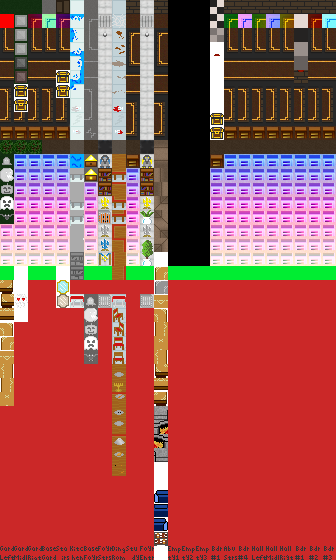
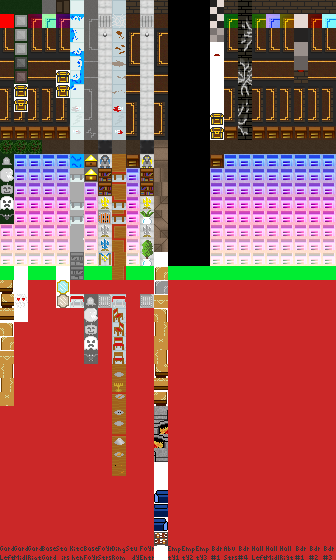
Cracks added to floor in tiny room above kitchen flooded area to add crash through

Changed region(s): [[0.6845, 0.0, 0.7738, 0.2732]]

diff --git a/js/World.js b/js/World.js
@@ -151,19 +151,10 @@ var levelHallwayRight =
 10, 10, 10, 10, 10, 10, 10, 206, 10, 10, 10, 10, 10, 10, 10, 10, 0, 0, 0, 0, 0, 0, 0, 0, 0, 0, 0, 0, 0, 0, 0, 10, 0, 0, 0, 0, 0, 0, 0, 0, 0, 0, 0, 0, 0, 0, 0, 10, 0, 0, 0, 0, 0, 0, 0, 0, 0, 0, 0, 0, 0, 0, 0, 10, 0, 0, 0, 0, 0, 0, 0, 0, 0, 0, 0, 0, 0, 0, 0, 10, 0, 0, 0, 0, 0, 0, 0, 0, 0, 0, 0, 0, 0, 0, 0, 10, 0, 0, 0, 0, 0, 0, 0, 0, 0, 0, 0, 0, 0, 0, 0, 10, 0, 0, 0, 0, 0, 0, 0, 0, 0, 0, 0, 0, 0, 0, 0, 10, 0, 0, 0, 0, 0, 0, 0, 0, 0, 0, 0, 0, 0, 0, 0, 10, 10, 10, 10, 10, 10, 10, 10, 212, 10, 10, 10, 10, 10, 10, 10, 10
 ];
 
-var levelBedroomFour =
-	[ // Bed, Rug, Nightstand
-		 10, 10, 10, 10, 10, 10, 10, 10, 10, 10, 10, 10, 10, 10, 10, 10,
-		 10, 0, 0, 0, 0, 0, 8, 8, 8, 0, 0, 0, 0, 0, 0, 10,
-		 10, 0, 0, 0, 0, 0, 8, 8, 8, 0, 0, 0, 0, 0, 0, 10,
-		 10, 0, 0, 0, 0, 0, 8, 8, 8, 0, 0, 0, 0, 0, 0, 10,
-		 10, 0, 0, 0, 0, 0, 0, 0, 0, 0, 0, 0, 0, 0, 0, 10,
-		 10, 0, 0, 0, 0, 0, 0, 0, 0, 0, 0, 0, 0, 0, 0, 10,
-		 10, 0, 0, 0, 0, 0, 0, 0, 0, 0, 0, 0, 0, 0, 0, 10,
-		 10, 0, 0, 0, 0, 0, 0, 0, 0, 0, 10, 10, 10, 10, 10, 10,
-		 10, 0, 0, 0, 0, 0, 0, 0, 0, 0, 0, 0, 0, 0, 0, 10,
-		 10, 10, 10, 10, 10, 10, 10, 0, 10, 10, 10, 10, 10, 10, 10, 10,
-	];
+var levelBedroomFour = 
+[
+10,10,10,10,10,10,10,10,10,10,10,10,10,10,10,10,10,10,10,10,10,10,10,10,10,10,10,10,10,10,10,10,10,10,10,0,0,0,0,0,0,0,10,10,10,10,10,10,10,10,0,1,4,7,0,0,0,0,0,10,10,10,10,10,10,10,0,2,5,8,0,0,0,0,0,10,10,10,10,10,10,10,0,3,6,9,0,0,0,0,0,10,10,10,10,10,10,10,10,0,0,0,0,0,0,0,10,10,10,10,10,10,10,10,10,10,10,10,10,0,10,10,10,10,10,10,10,10,10,10,10,10,10,10,10,0,10,10,10,10,10,10,10,10,10,10,10,10,10,10,10,0,10,10,10,10,10,10,10,10
+];
 
 var levelKitchenBedroomFourMerged =
 [ // Cabinets, Counter-tops, Island
